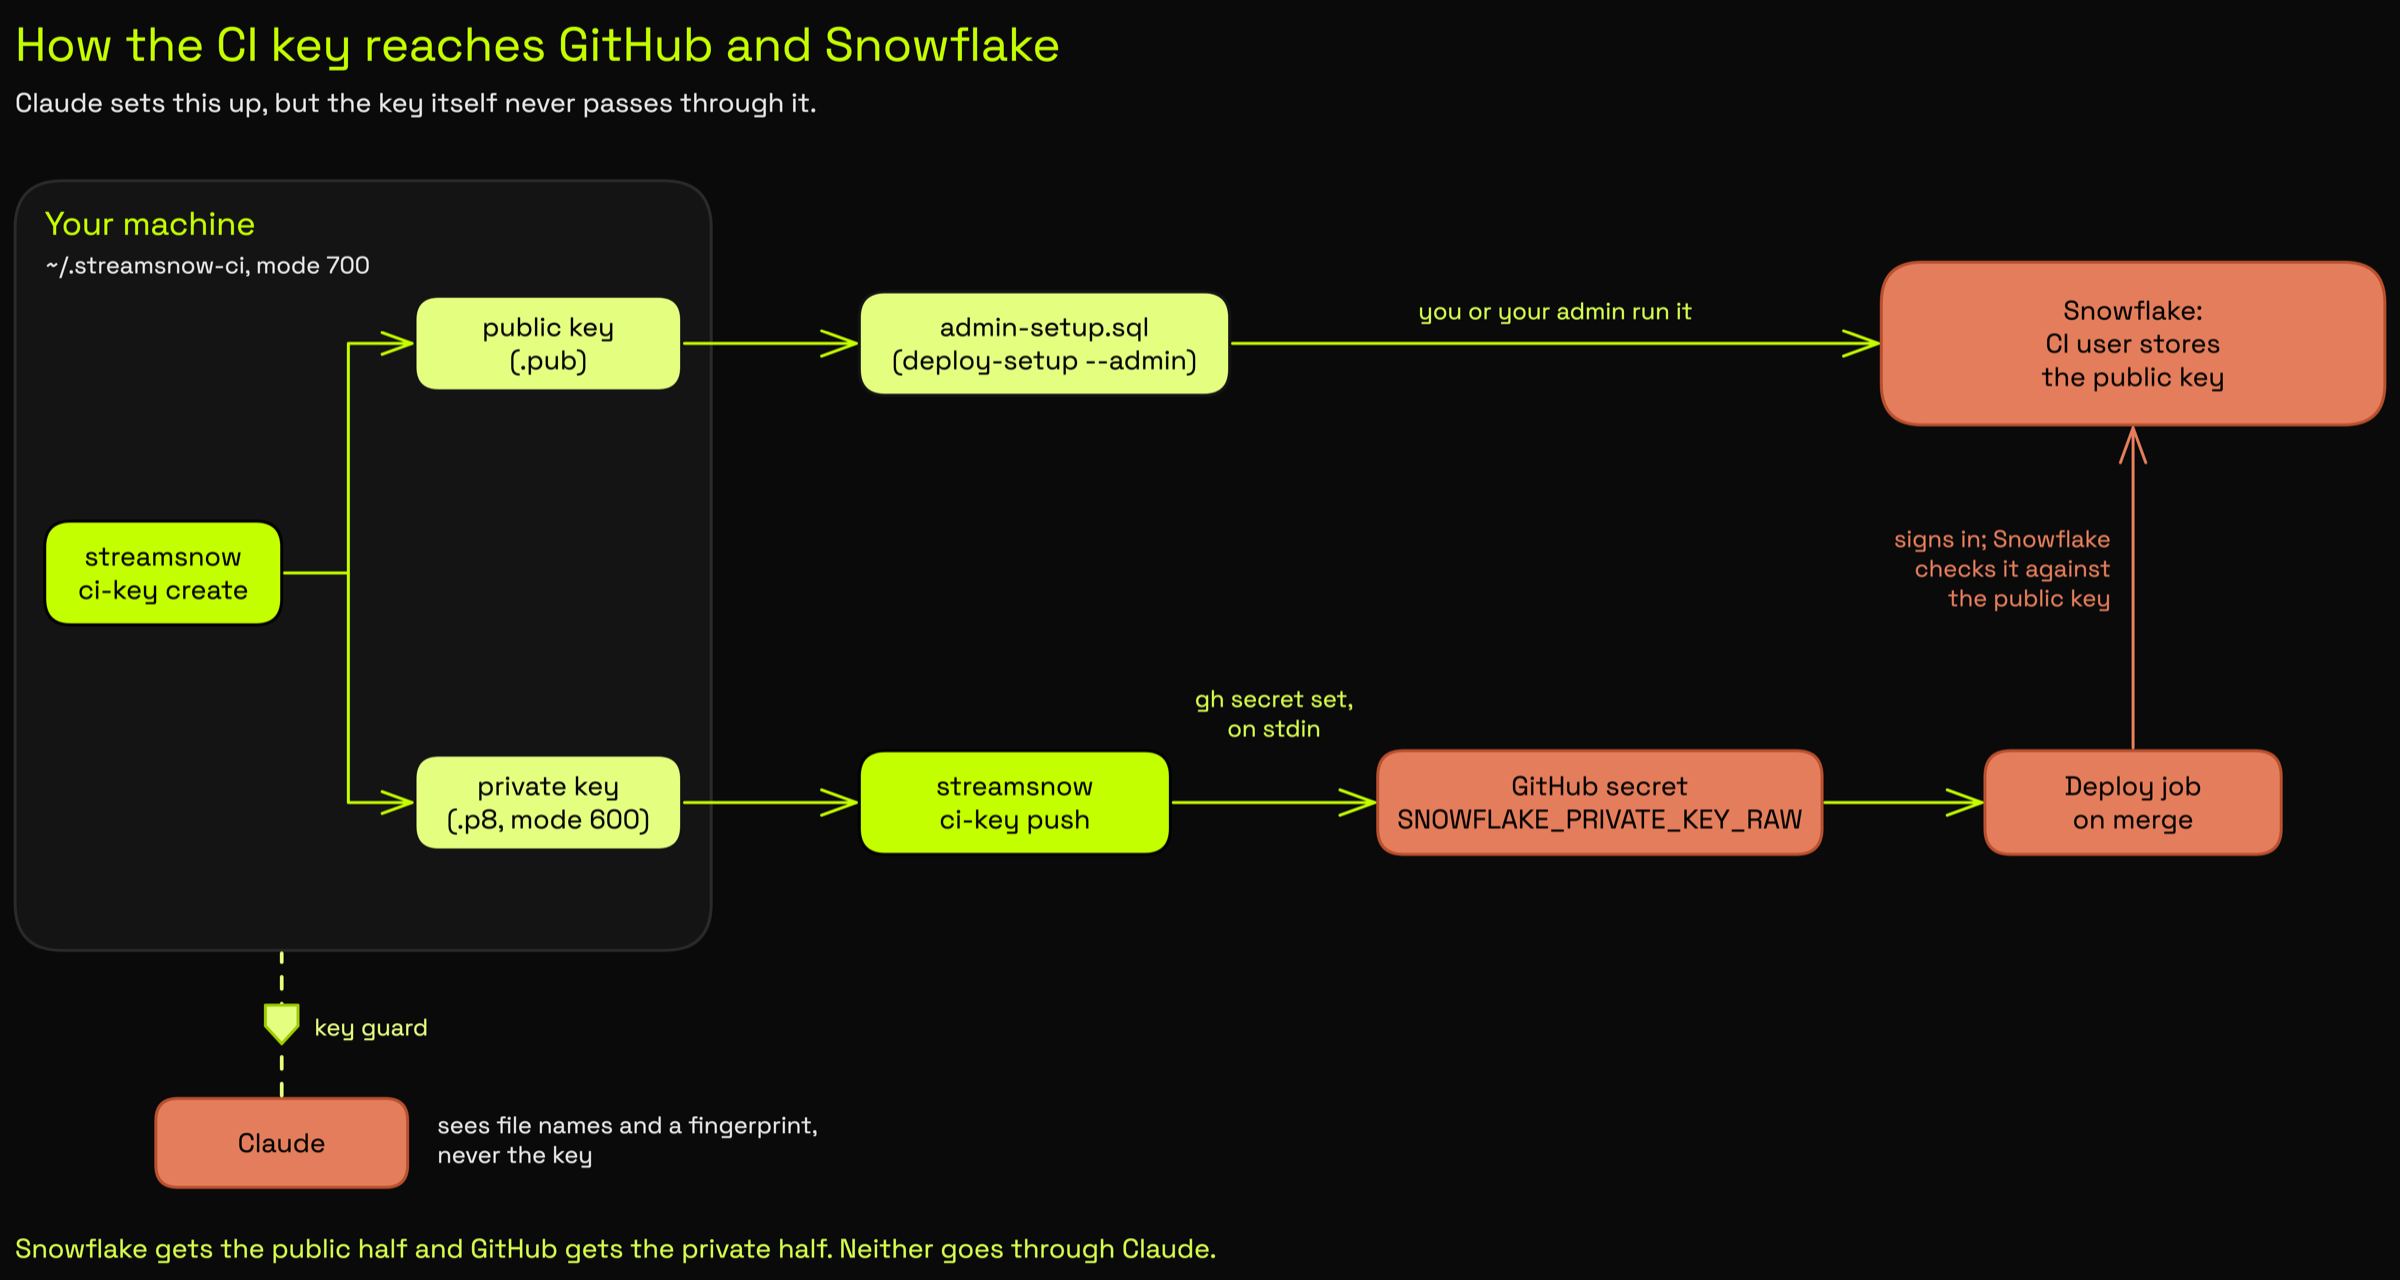
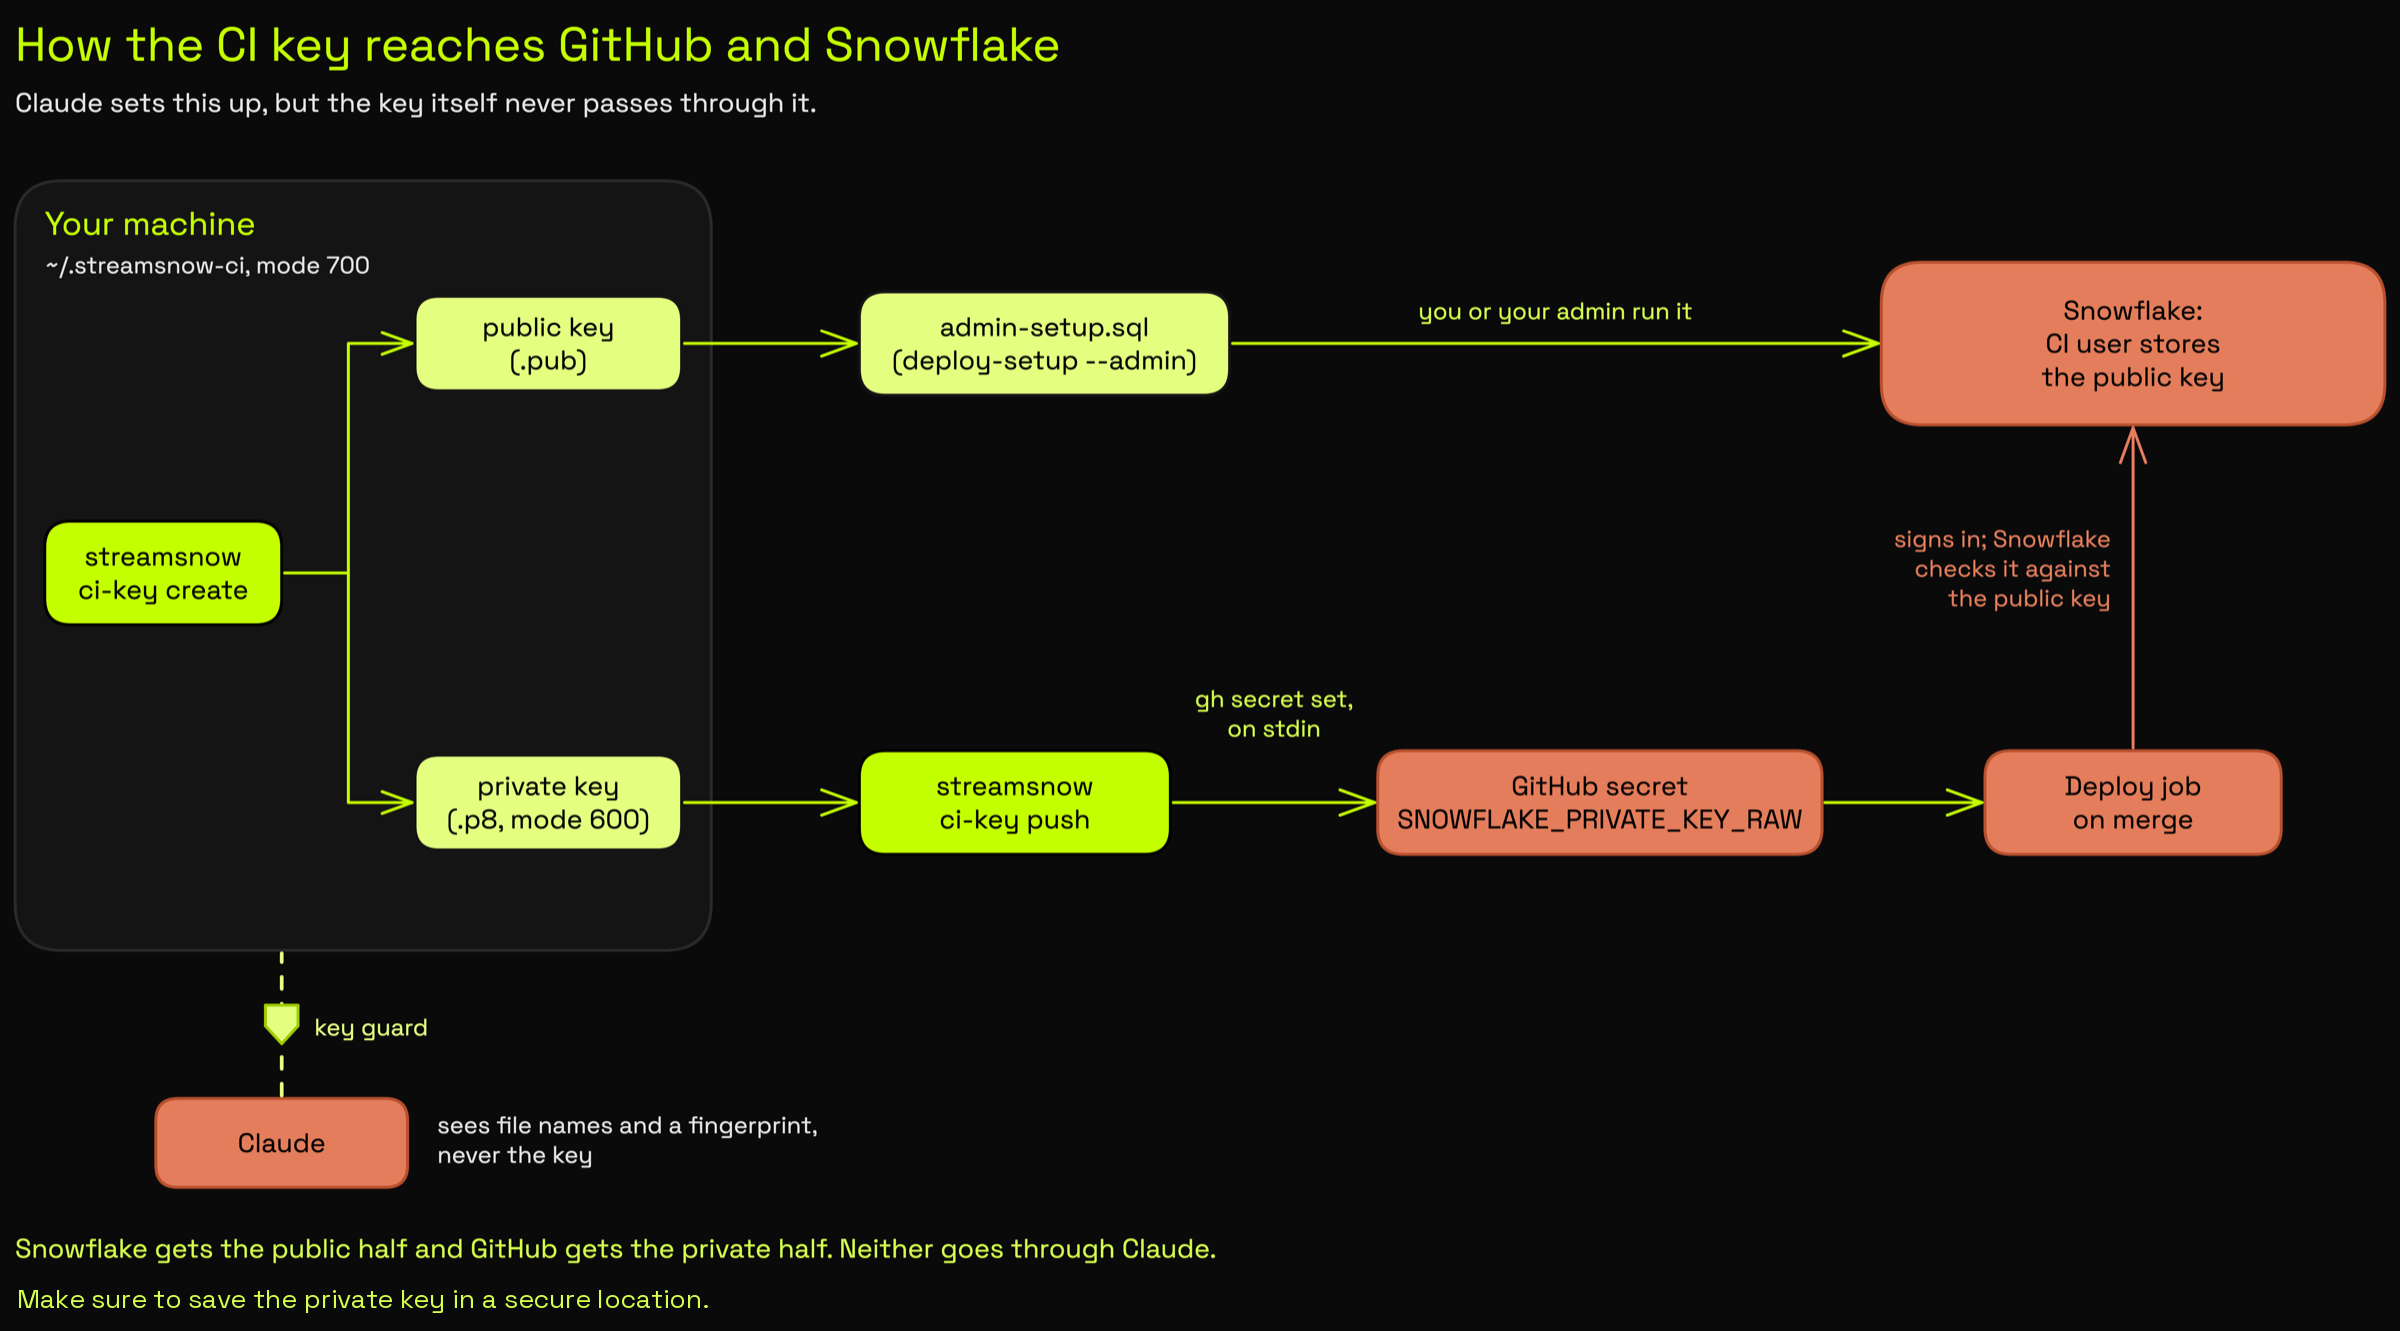
docs(diagram): secrets flow says to save the private key securely
Adds "Make sure to save the private key in a secure location." under
the diagram's caption (source and PNG) and to the README alt text.

Claude-Session: https://claude.ai/code/session_013ni6bDEhHJg1EFMYJnrmUy

diff --git a/README.md b/README.md
@@ -107,7 +107,7 @@ behalf. Here is exactly what that means for your credentials.
   `SNOWFLAKE_*` values.
 
 <p align="center">
-  <a href="docs/images/secrets-flow.png"><img alt="The CI key flow: on your machine, streamsnow ci-key create makes a key pair. The public half goes into the admin script, which you or your Snowflake admin run, so Snowflake stores it on the CI user. The private half goes through streamsnow ci-key push to a GitHub secret. On merge, the deploy job signs in with the private key and Snowflake checks it against the public key. Claude sees file names and a fingerprint, never the key." src="docs/images/secrets-flow.png" width="100%"></a>
+  <a href="docs/images/secrets-flow.png"><img alt="The CI key flow: on your machine, streamsnow ci-key create makes a key pair. The public half goes into the admin script, which you or your Snowflake admin run, so Snowflake stores it on the CI user. The private half goes through streamsnow ci-key push to a GitHub secret. On merge, the deploy job signs in with the private key and Snowflake checks it against the public key. Claude sees file names and a fingerprint, never the key. Make sure to save the private key in a secure location." src="docs/images/secrets-flow.png" width="100%"></a>
 </p>
 
 The limits, stated plainly: Claude runs as your user account, so the key guard
